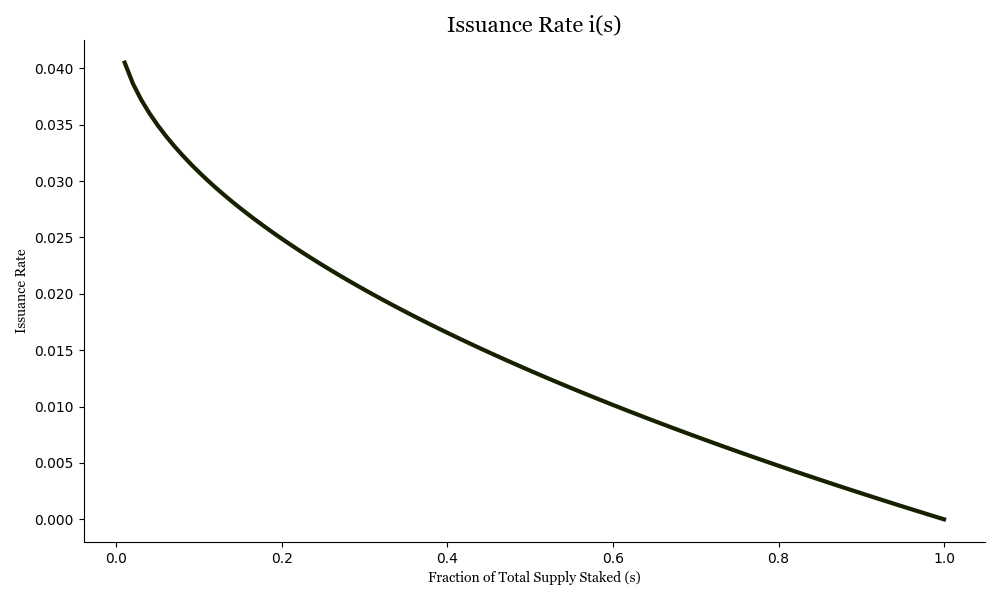
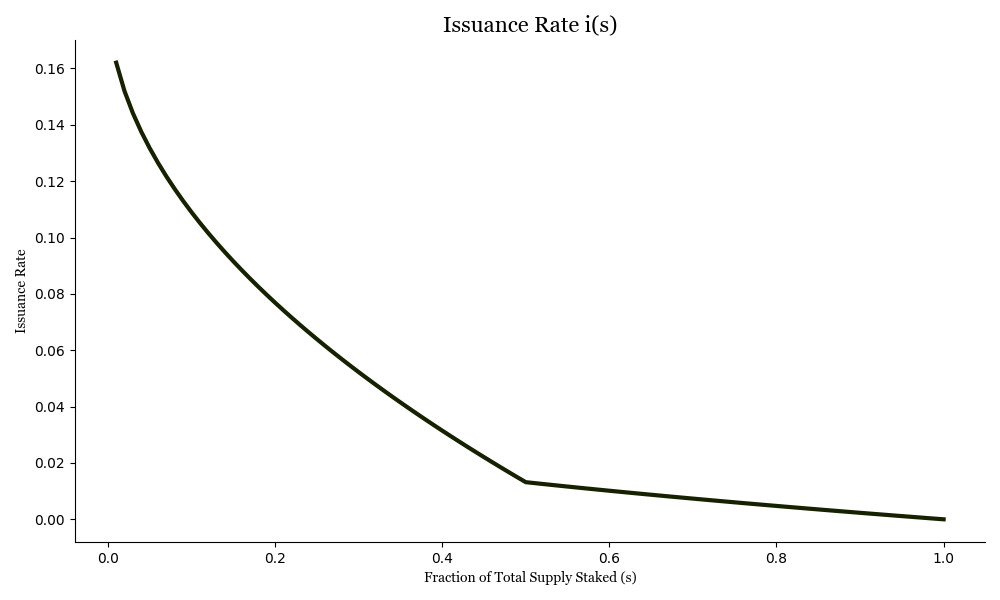
updated issuance curve to incorporate feedback

diff --git a/proposals/0228-market-based-emission-mechanism.md b/proposals/0228-market-based-emission-mechanism.md
@@ -114,32 +114,47 @@ stops changing.
 
 ### New Emission Rate Formula
 
-The issuance rate formula is:
+## Expressions
 
-$$i(s) = r(1 - \sqrt{s})$$
+The issuance rate formula is:
+$$i(s) = r(1-\sqrt{s} + c \cdot \max(1-\sqrt{2s},0)) $$
+
+where:
+$$ c = \frac{\sqrt{\frac{1}{3}}}{1- \sqrt{\frac{2}{3}}}
+\approx 3.14626436994
+\approx \pi $$
+
+When $s>.5$ the curve corresponds to $r(1-\sqrt{s})$, the curve in the previous
+version of this proposal.
+Based on feedback about the previous version of this proposal, we have added the
+$c \cdot \max(1-\sqrt{2s},0))$ term to make the curve more aggressive
+when a smaller fraction of the network is staked. $c$ is chosen such that the
+curve starts becoming more agressive at $s =.5$,
+when half of the supply is staked, and surpasses the current static emission
+schedule of $r$ when $s = 1/3$.
+
+The derivation of $c$ is provided in the appendix.
 
 ![Issuance Rate](../suporting_images/0228-market-based-emission-mechanism/issuance_rate.png)
 
+
 This yields a vote reward rate for validators with good performance of:
-![alt text](../../../rewards_graphics/issuance_rate.png)
-$$v(s) = \frac{i(s)}{s} = \frac{r(1 - \sqrt{s})}{s}$$
+
+$$v(s) = \frac{i(s)}{s} = \frac{r(1-\sqrt{s} + c \cdot \max(1-\sqrt{2s},0))}{s}$$
 
 ![Issuance Rate](../suporting_images/0228-market-based-emission-mechanism/staking_returns.png)
 
-### Gradual Transition
+To ensure that the transition from the old static issuance schedule to this new
+schedule is smooth, we will interpolate between the old issuance rate and the
+new issuance rate over 10 epochs using the formula:
 
-To avoid whiplash on staking rewards, we propose a gradual transition to the new
-formula. The trasition will take place over 10 epochs. More concretely, when th
-proposal is actived issuance rate will be:
 
-$$i(s) = r(1 - \alpha\sqrt{s})$$
+$$i(s) = r(1-\alpha\sqrt{s} + \alpha c \cdot \max(1-\sqrt{2s},0))$$
 
-where,
-$$\alpha = \min \left( \frac{\text{number of epochs since proposal activation}}{10}
-, 1 \right)$$
-
-![transition](../suporting_images/0228-market-based-emission-mechanism/transition.png)
-
+where $\alpha$ is a parameter that controls the speed of the transition, taking
+the values $\frac{1}{10},\frac{2}{10},\dots,\frac{9}{10}, 1$.
+over the first 10 epochs before settling to the
+new issuance rate at $\alpha = 1$.
 ## Alternatives Considered
 
 ### Alternative Design 1: Pick another fixed rate
@@ -200,3 +215,21 @@ If the issuance rate were instead governed by this proposal, we should expect
 the staked amount to be more than 30% because $v(30\%) \approx 6.25\%$.
 We know that $D(6.25\%)$ = 65% and therefore the staked amount under the new
 issuance rate would be more than 30% if demand stays the same.
+
+## Appendix
+
+### Derivation of $c$
+
+We the goal is to find $c$ such that $r = i(1/3)$.
+
+$$ r = r (1- \sqrt{1/3} + c \cdot \max(1 - \sqrt{2/3}, 0)$$
+
+Since $1-\sqrt{2/3} > 0$ we can remove the $\max$ function.
+
+$$ r = r (1- \sqrt{1/3}+ c  (1 - \sqrt{2/3}))$$
+
+$$ 1 = 1 - \sqrt{1/3}+ c  (1 - \sqrt{2/3})$$
+
+$$ \sqrt{1/3} = c  (1 - \sqrt{2/3})$$
+
+$$ c = \frac{\sqrt{1/3}}{1 - \sqrt{2/3}} $$
